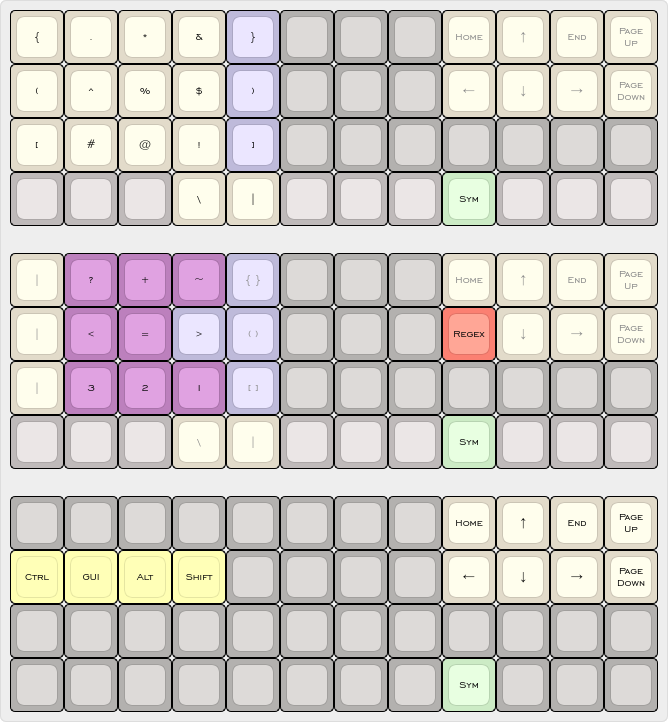
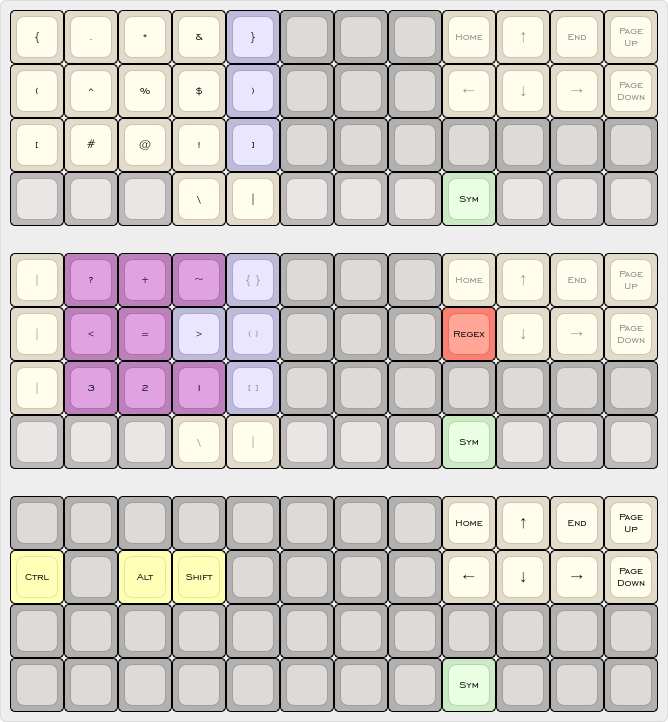
Drop GUI modifier on symbol layer.

Changed region(s): [[0.0898, 0.7618, 0.1796, 0.8532]]

diff --git a/keymap.c b/keymap.c
@@ -26,7 +26,6 @@ enum planck_layers {
 
 enum planck_keycodes {
     BASE = SAFE_RANGE,
-    PS_CIRC,   /* pseudo GUI_T(S(KC_6)) */
     PS_DLR,    /* pseudo SFT_T(S(KC_4)) */
     PS_PERC,   /* pseudo ALT_T(S(KC_5)) */
     PS_LPRN,   /* pseudo CTL_T(S(KC_9)) */
@@ -268,7 +267,7 @@ const uint16_t PROGMEM keymaps[][MATRIX_ROWS][MATRIX_COLS] = {
      */
     [_SYMBOL] = {
         {KC_LCBR, KC_DOT,  KC_ASTR, KC_AMPR, TD_RCBR, _______, _______, _______, KC_HOME, KC_UP,   KC_END,  KC_PGUP},
-        {PS_LPRN, PS_CIRC, PS_PERC, PS_DLR,  TD_RPRN, _______, _______, _______, LT_LFTX, KC_DOWN, KC_RGHT, KC_PGDN},
+        {PS_LPRN, KC_CIRC, PS_PERC, PS_DLR,  TD_RPRN, _______, _______, _______, LT_LFTX, KC_DOWN, KC_RGHT, KC_PGDN},
         {KC_LBRC, KC_HASH, KC_AT,   KC_EXLM, TD_RBRC, _______, _______, _______, _______, _______, _______, _______},
         {___x___, ___x___, ___x___, KC_BSLS, PS_PIPE, ___x___, ___x___, ___fn__, ___x___, ___x___, ___x___, ___x___},
     },
@@ -852,10 +851,6 @@ bool process_record_user(uint16_t keycode, keyrecord_t *record)
             break;
         case OS_GUI:
             tap_mods(record, KC_LGUI);
-            break;
-        case PS_CIRC:
-            /* GUI_T(S(KC_6)) */
-            mt_shift(record, KC_LGUI, KC_6);
             break;
         case PS_DLR:
             /* SFT_T(S(KC_4)) */
